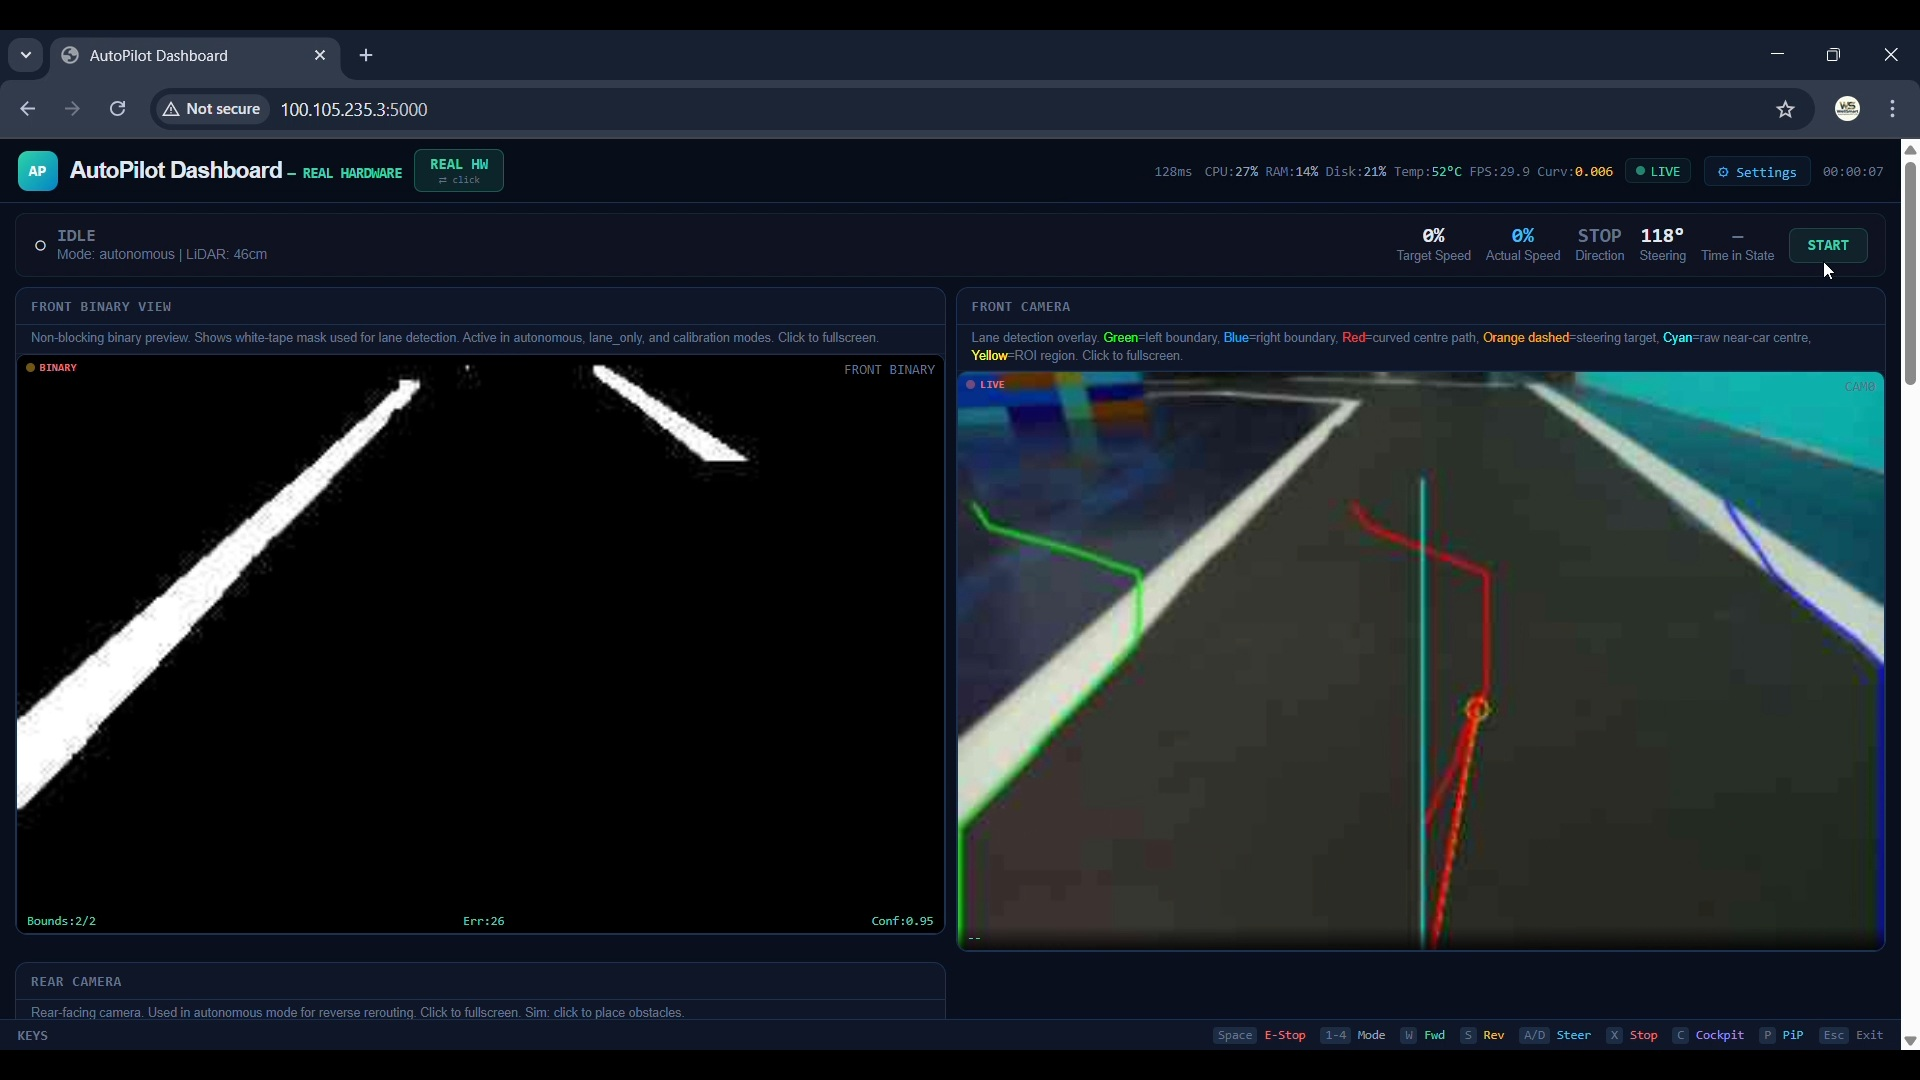
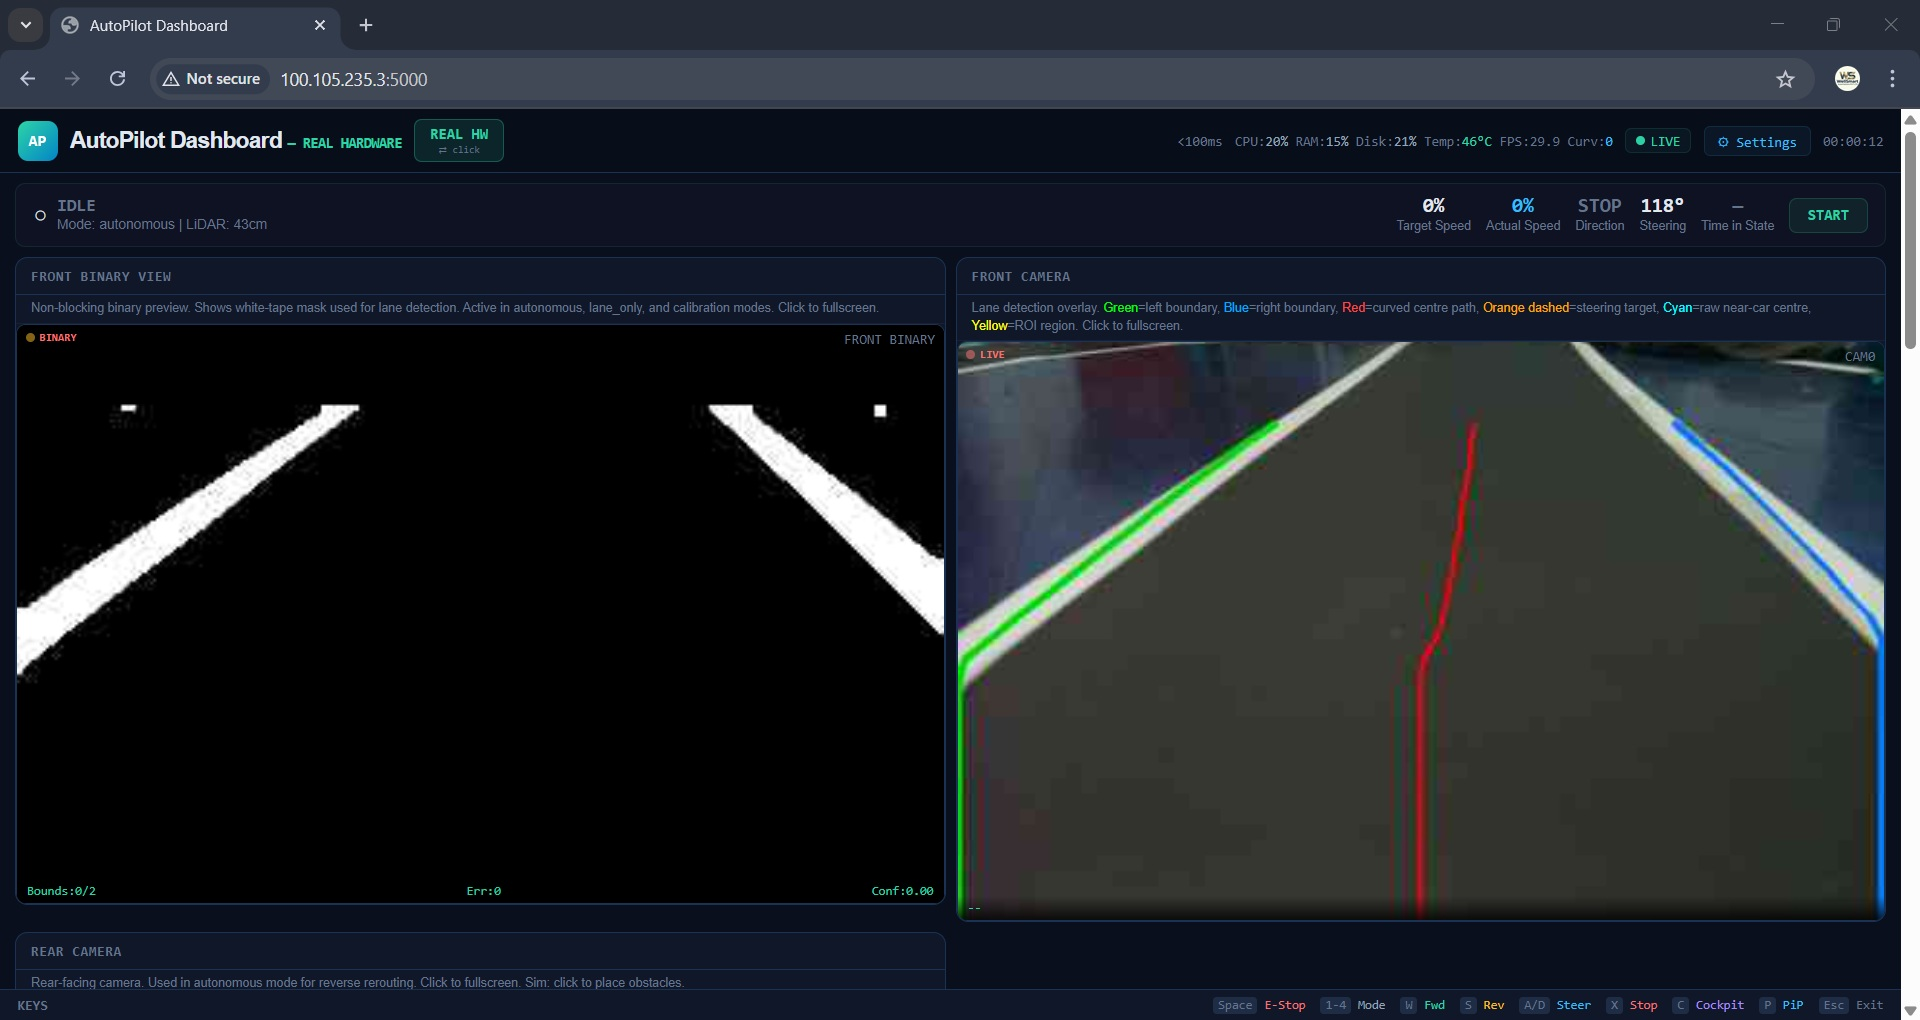
Fix video display and update hero image

Changed region(s): [[0.0, 0.0, 1.0, 1.0], [0.4375, 0.3951, 0.4688, 0.4255]]

diff --git a/index.html b/index.html
@@ -326,7 +326,8 @@ section+section{border-top:1px solid var(--l)}
 
 .pv .vp{pointer-events:none}
 .pv{display:none}
-.pv.confirmed{display:block}
+
+
 
 
 
@@ -1380,19 +1381,35 @@ document.querySelectorAll('.pg').forEach(gallery=>{
   });
 });
 
-// ═══ VIDEO — hidden by default, shown when file loads ═══
+// ═══ VIDEO — hidden by default, shown only if file exists ═══
 document.querySelectorAll('.pv').forEach(section=>{
   const video=section.querySelector('video');
   const source=video?video.querySelector('source'):null;
   if(!video||!source)return;
-  video.preload='metadata';
-  video.addEventListener('loadedmetadata',()=>{
-    section.classList.add('confirmed');
-    const ph=section.querySelector('.vp');
-    if(ph)ph.style.display='none';
-  },{once:true});
-  source.addEventListener('error',()=>{section.classList.remove('confirmed');},{once:true});
-  video.load();
+  const url=source.getAttribute('src');
+  if(!url)return;
+
+  // Quick check if file exists (HEAD request, no download)
+  fetch(url,{method:'HEAD'}).then(r=>{
+    if(r.ok){
+      // File exists — show section immediately with play button
+      section.style.display='block';
+      // When video metadata loads, replace play button with actual player
+      video.addEventListener('loadedmetadata',()=>{
+        const ph=section.querySelector('.vp');
+        if(ph)ph.style.display='none';
+      },{once:true});
+    }
+    // If not ok (404) — section stays hidden, nothing shows
+  }).catch(()=>{
+    // fetch failed (local file://) — try loading video directly
+    video.addEventListener('loadedmetadata',()=>{
+      section.style.display='block';
+      const ph=section.querySelector('.vp');
+      if(ph)ph.style.display='none';
+    },{once:true});
+    source.addEventListener('error',()=>{},{once:true});
+  });
 });
 
 // ═══ REVEAL ANIMATION ═══
